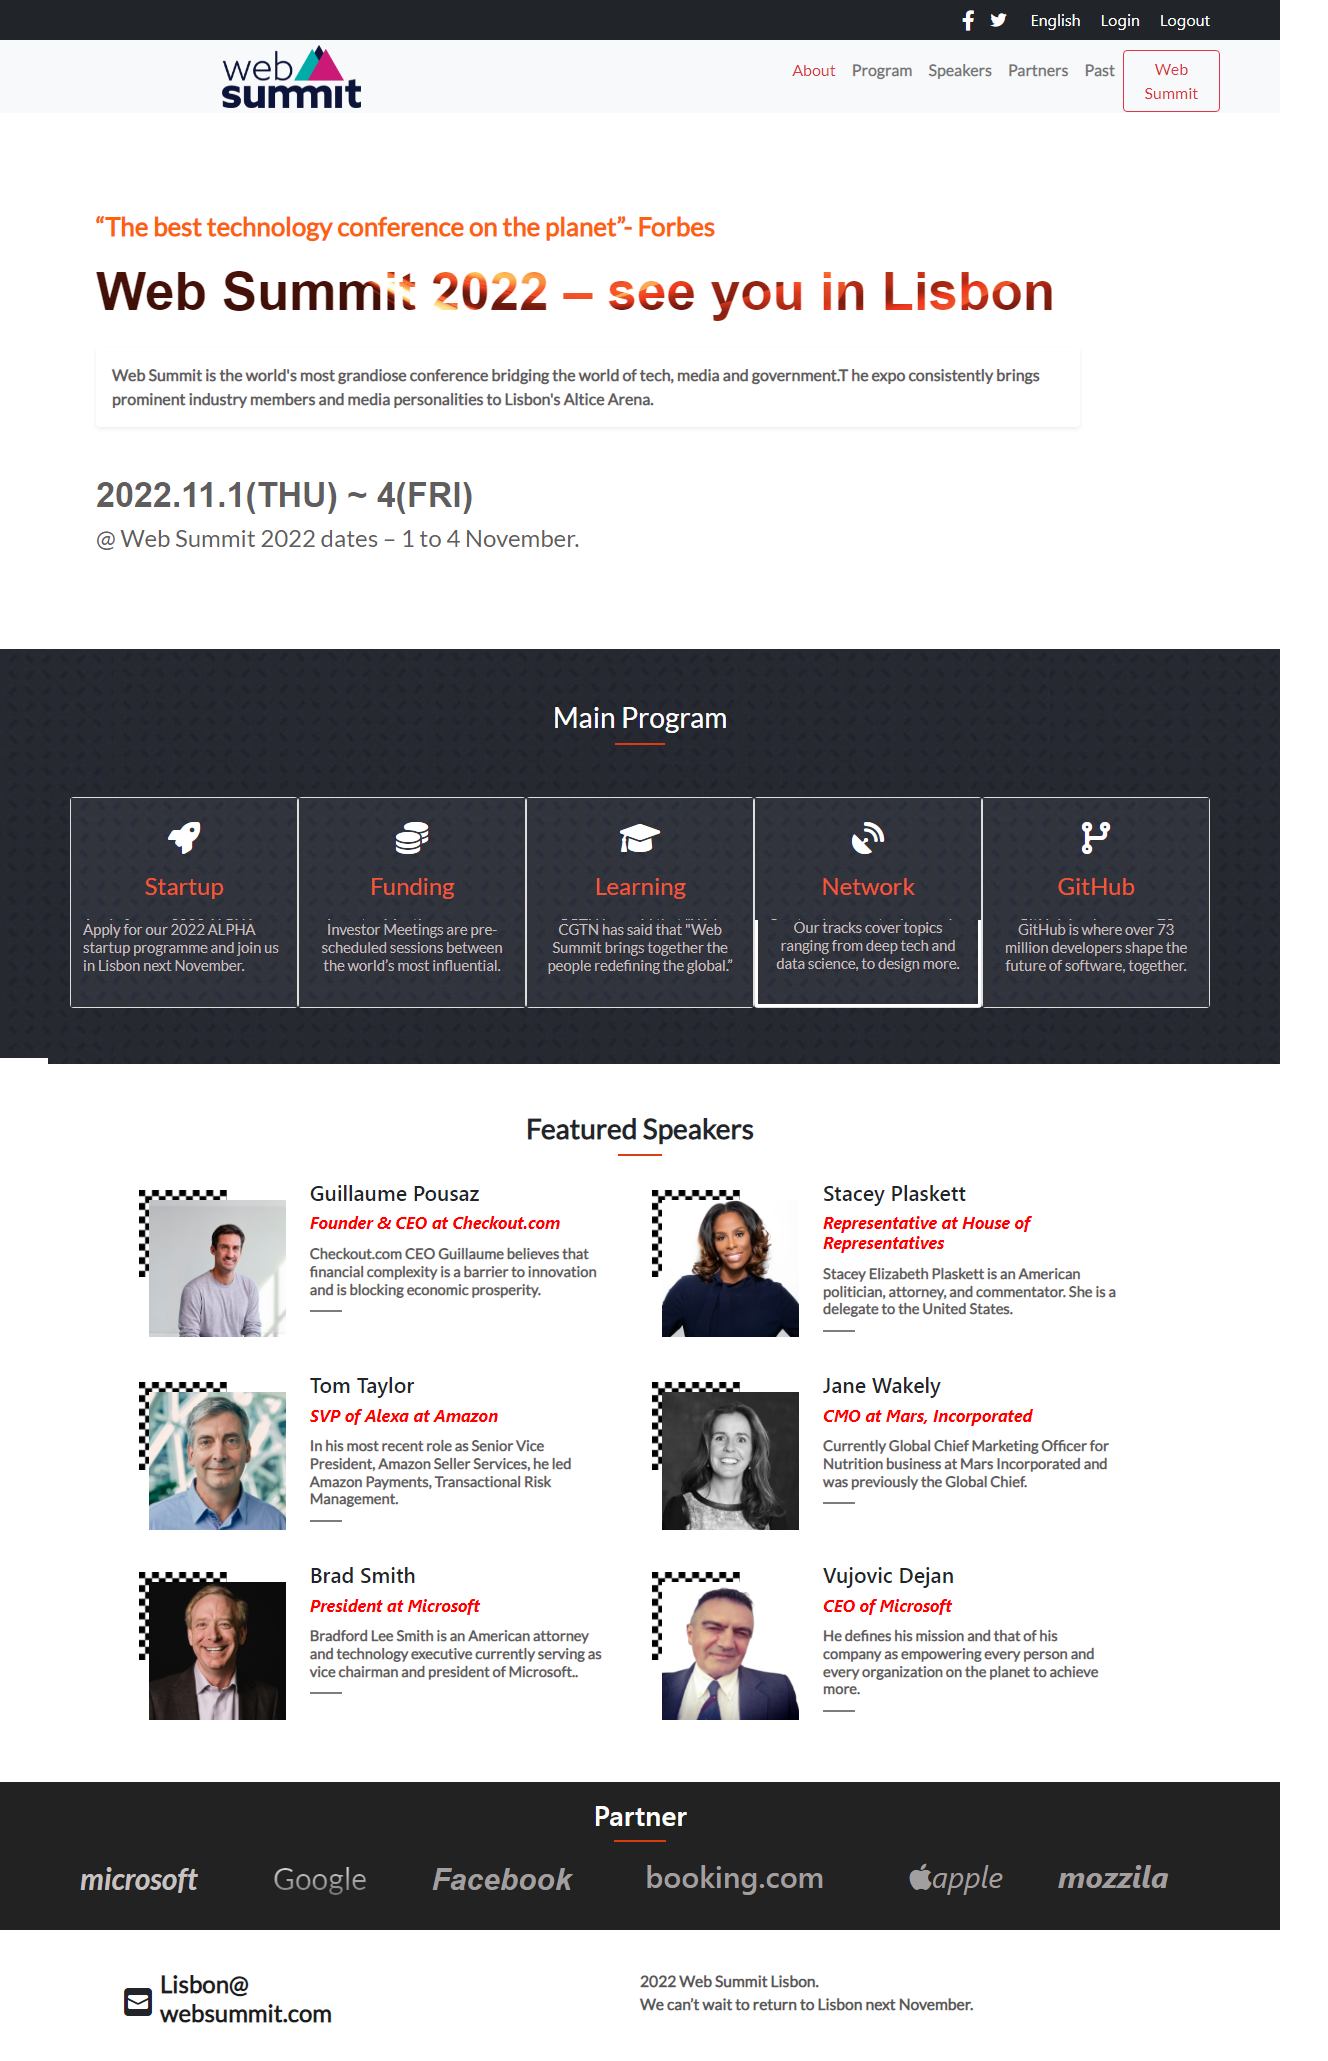
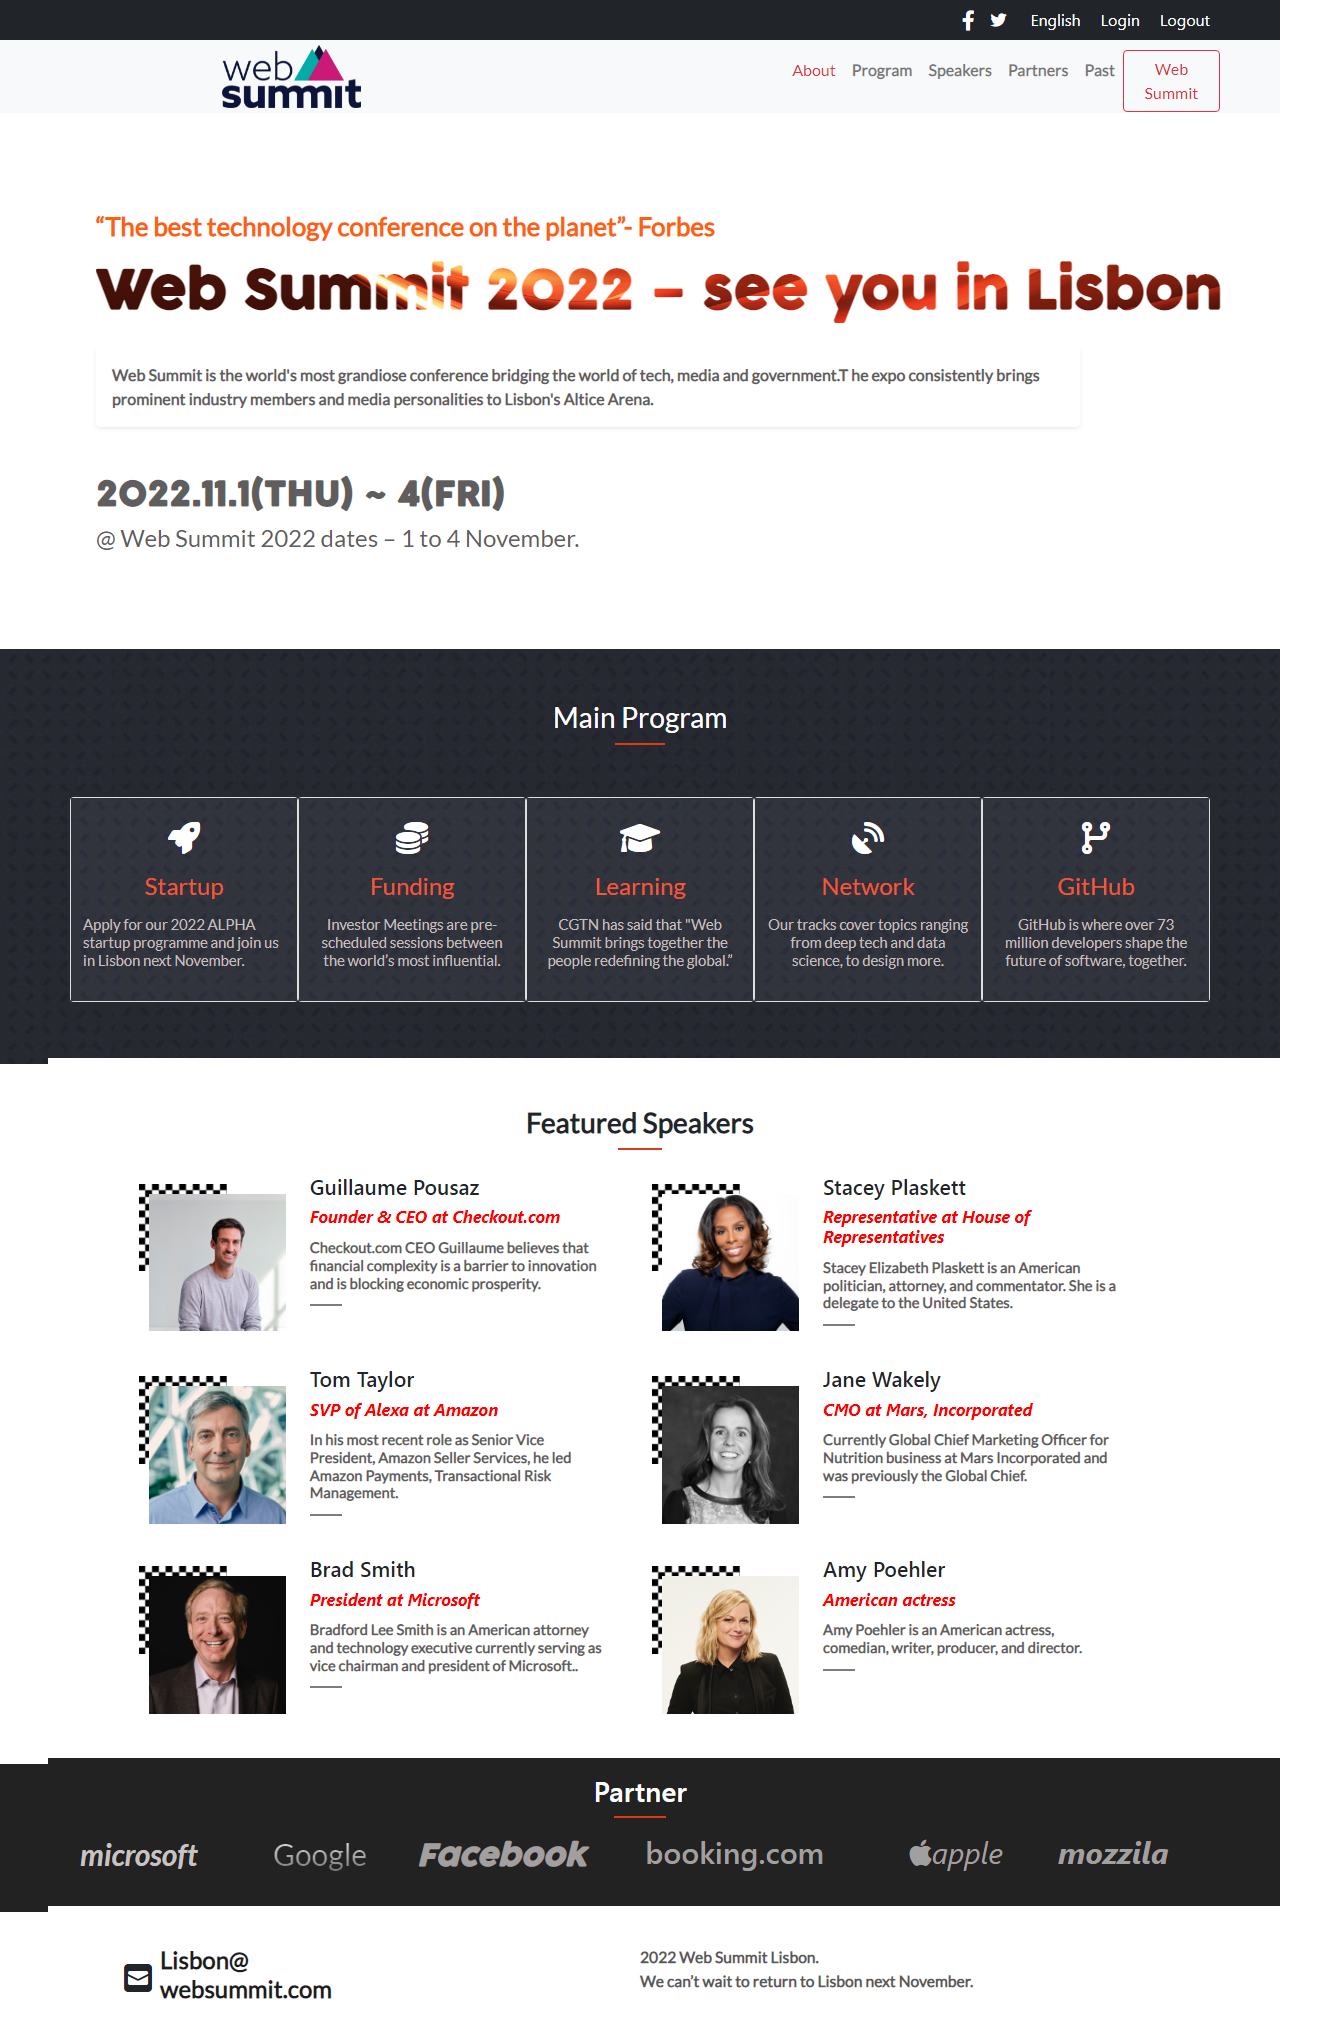
readme fix

diff --git a/js/dynamic.js b/js/dynamic.js
@@ -52,9 +52,9 @@ const featuredSpeakers3 = [
   },
   {
     id: 2,
-    name: 'Vujovic Dejan',
-    description: 'CEO of Microsoft',
-    about: 'He defines his mission and that of his company as empowering every person and every organization on the planet to achieve more.',
+    name: 'Amy Poehler',
+    description: 'American actress',
+    about: 'Amy Poehler is an American actress, comedian, writer, producer, and director.',
     img1: 'img/speaker-background.jpg',
     img2: 'img/speaker6.png',
   },
